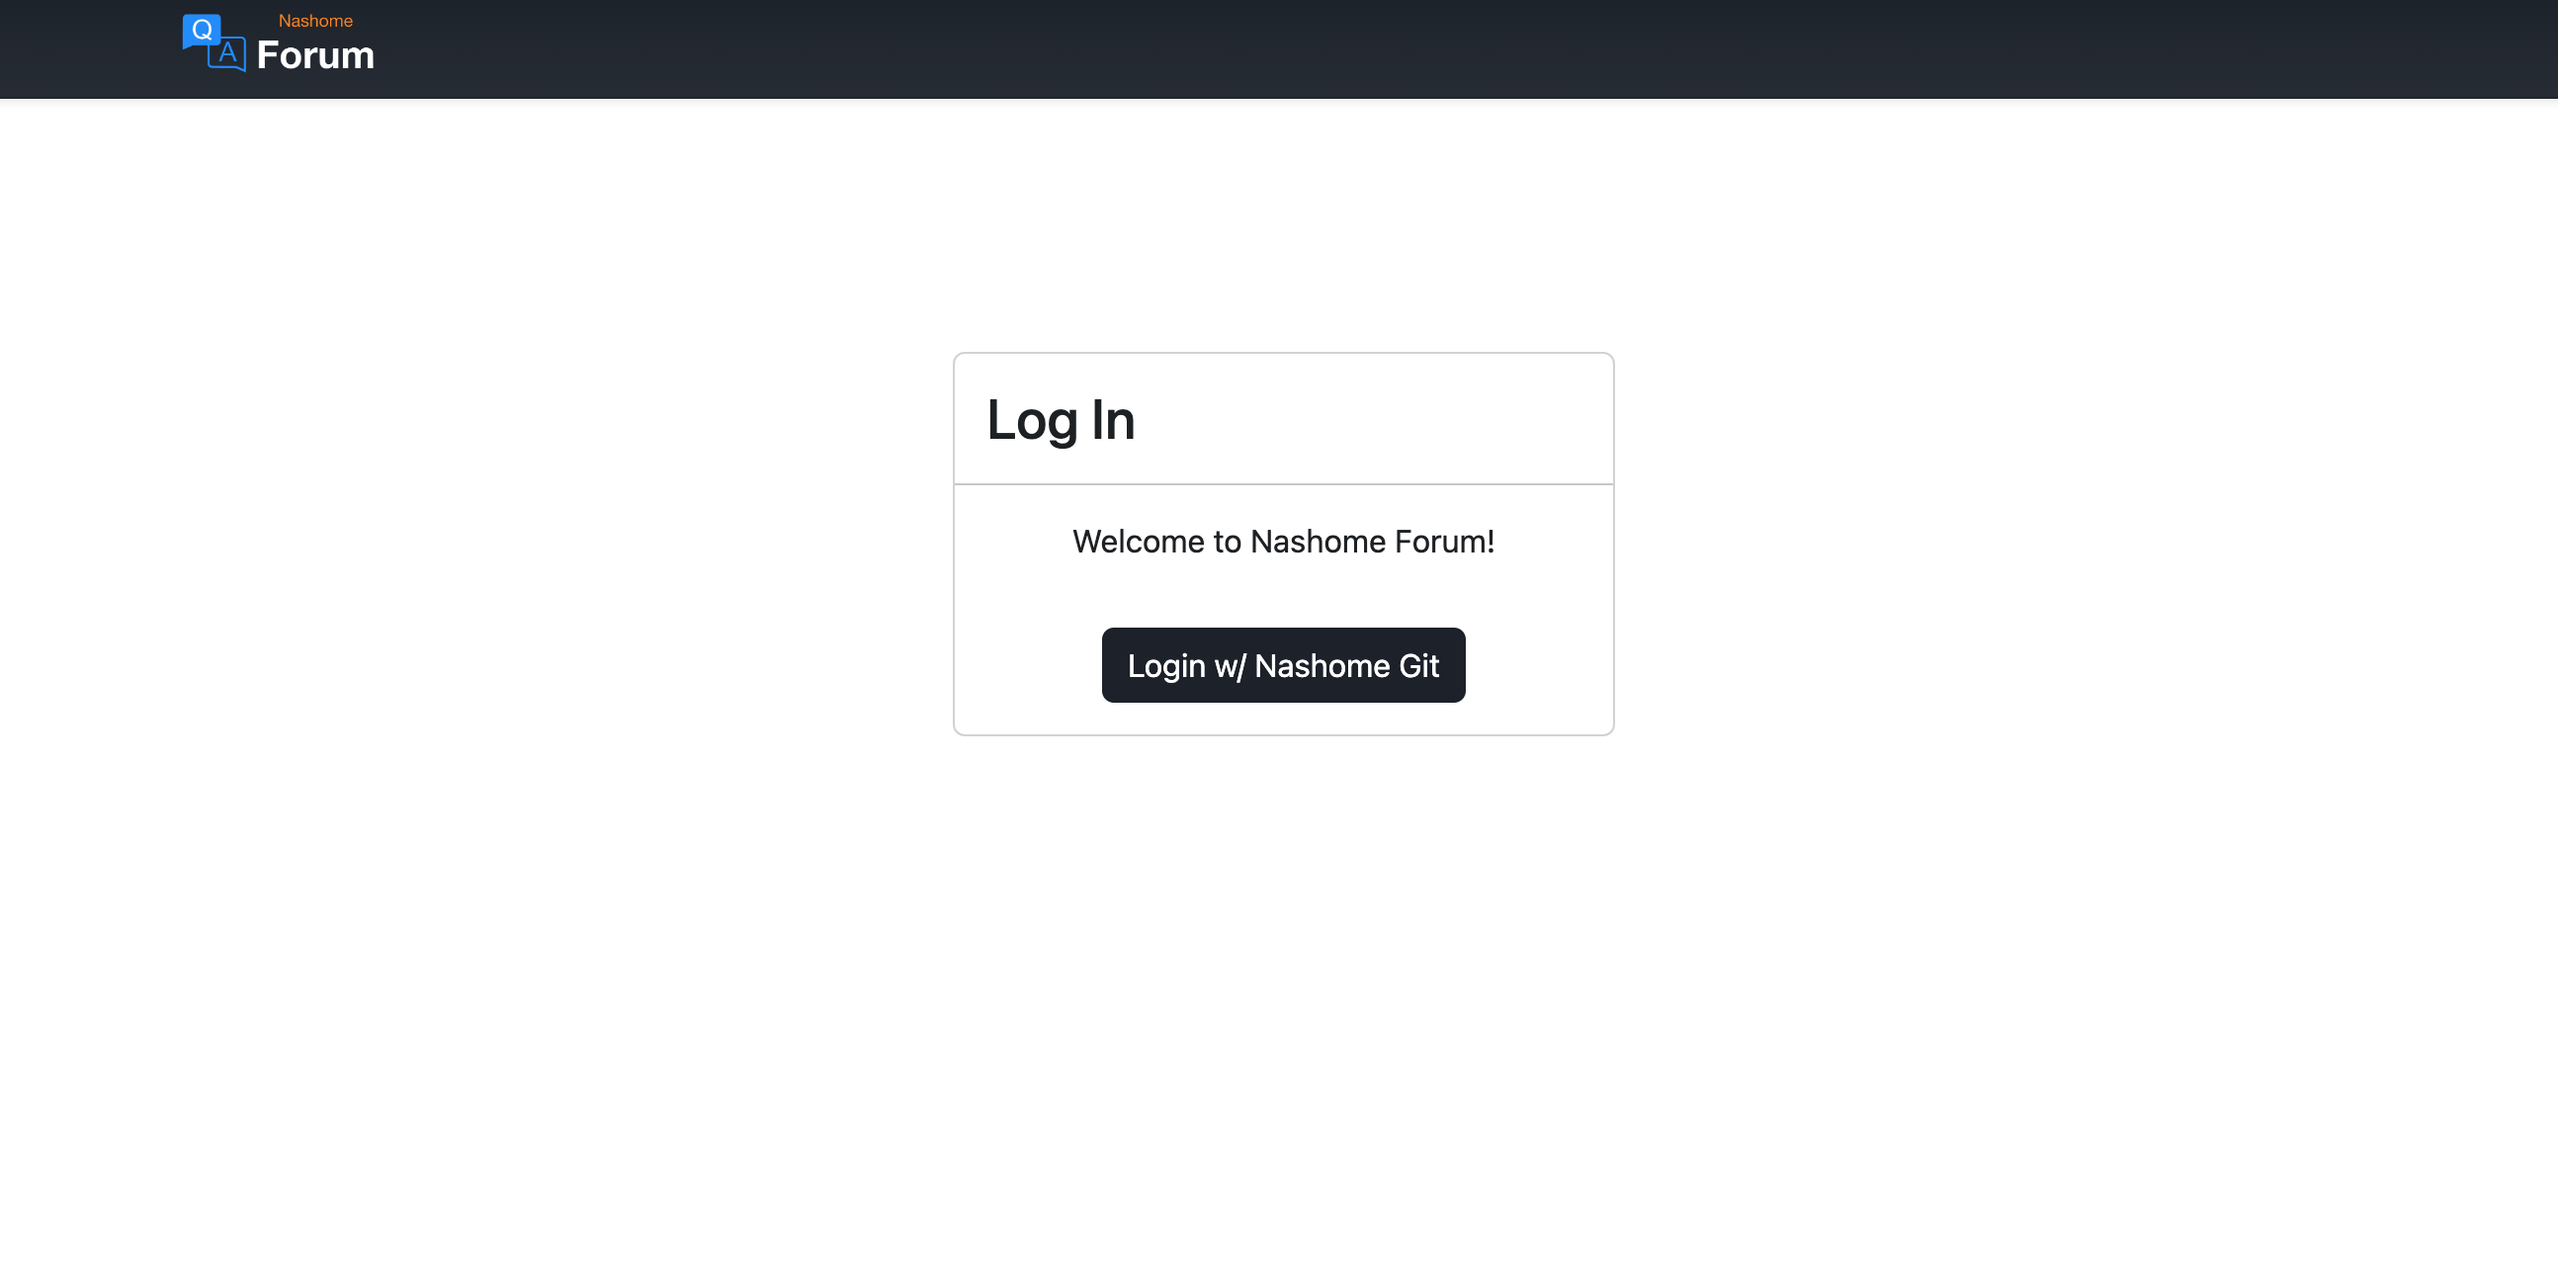
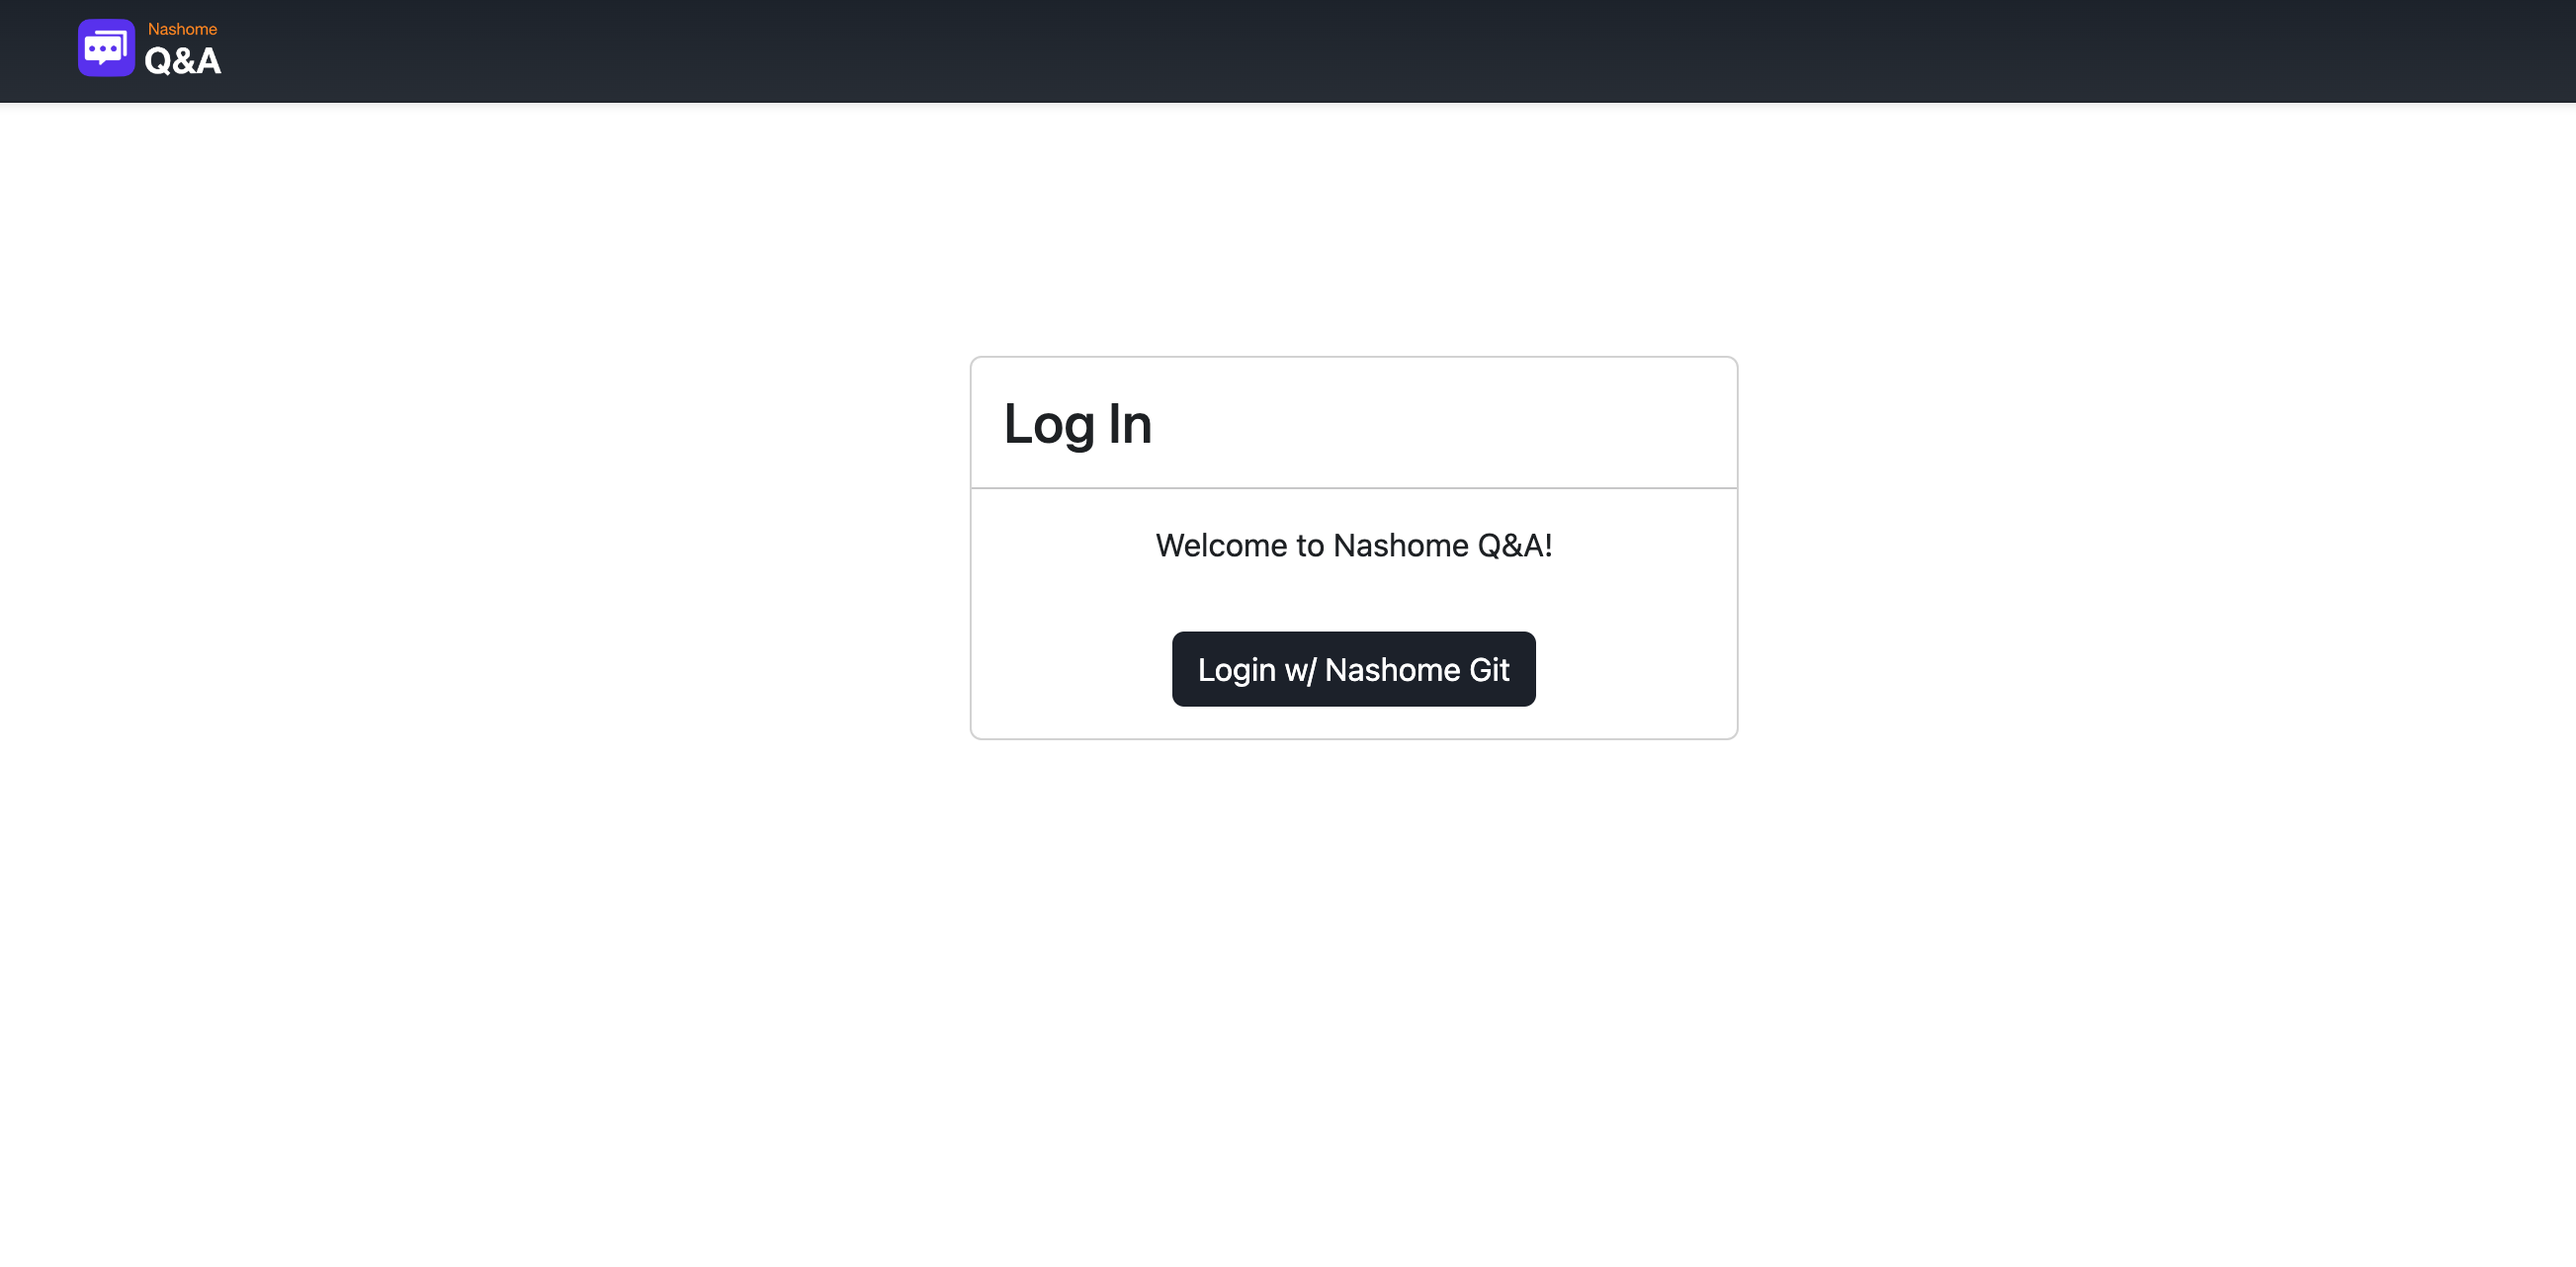
qa

diff --git a/index.html b/index.html
@@ -85,7 +85,7 @@
               </li> -->
             </ul>
             <div class="btn-sing float-right">
-              <a class="btn btn-border" href="https://forum.nashome.tk">Q&A</a>
+              <a class="btn btn-border" href="https://qa.nashome.tk">Q&A</a>
             </div>
           </div>
         </div>
@@ -220,7 +220,7 @@
               </div>
               <div class="services-content">
                 <h3><a href="#">问答平台</a></h3>
-                <p>不管是技术问题还是其他问题，都可以在Nashome Forum寻求答案，该平台可以自由提问与回答。</p>
+                <p>不管是技术问题还是其他问题，都可以在Nashome Q&A寻求答案，该平台可以自由提问与回答。</p>
               </div>
             </div>
           </div>
@@ -652,13 +652,13 @@
       </div>
 
 
-      <!-- nashome forum -->
+      <!-- nashome QA -->
       <div class="container-fluid" style="padding-top: 20px; padding-bottom: 20px;">
         <div class="row">
           <div class="col-lg-6 col-md-12 col-sm-12">
             <div class="text-wrapper">
               <div>
-                <h2 class="title-hl wow fadeInLeft" data-wow-delay="0.3s">Nashome Forum</h2>
+                <h2 class="title-hl wow fadeInLeft" data-wow-delay="0.3s">Nashome Q&A</h2>
                 <div class="row">
                   <div class="col-md-6 col-sm-6">
                     <div class="features-box wow fadeInLeft" data-wow-delay="0.3s">
@@ -715,7 +715,7 @@
                       <div class="header-button wow fadeInUp" data-wow-delay="0.3s">
                         <br>
                         <br>
-                        <a href="https://forum.nashome.tk" class="btn btn-common">立即注册/登录</a>
+                        <a href="https://qa.nashome.tk" class="btn btn-common">立即注册/登录</a>
                       </div>
                     </div>
                   </div>
